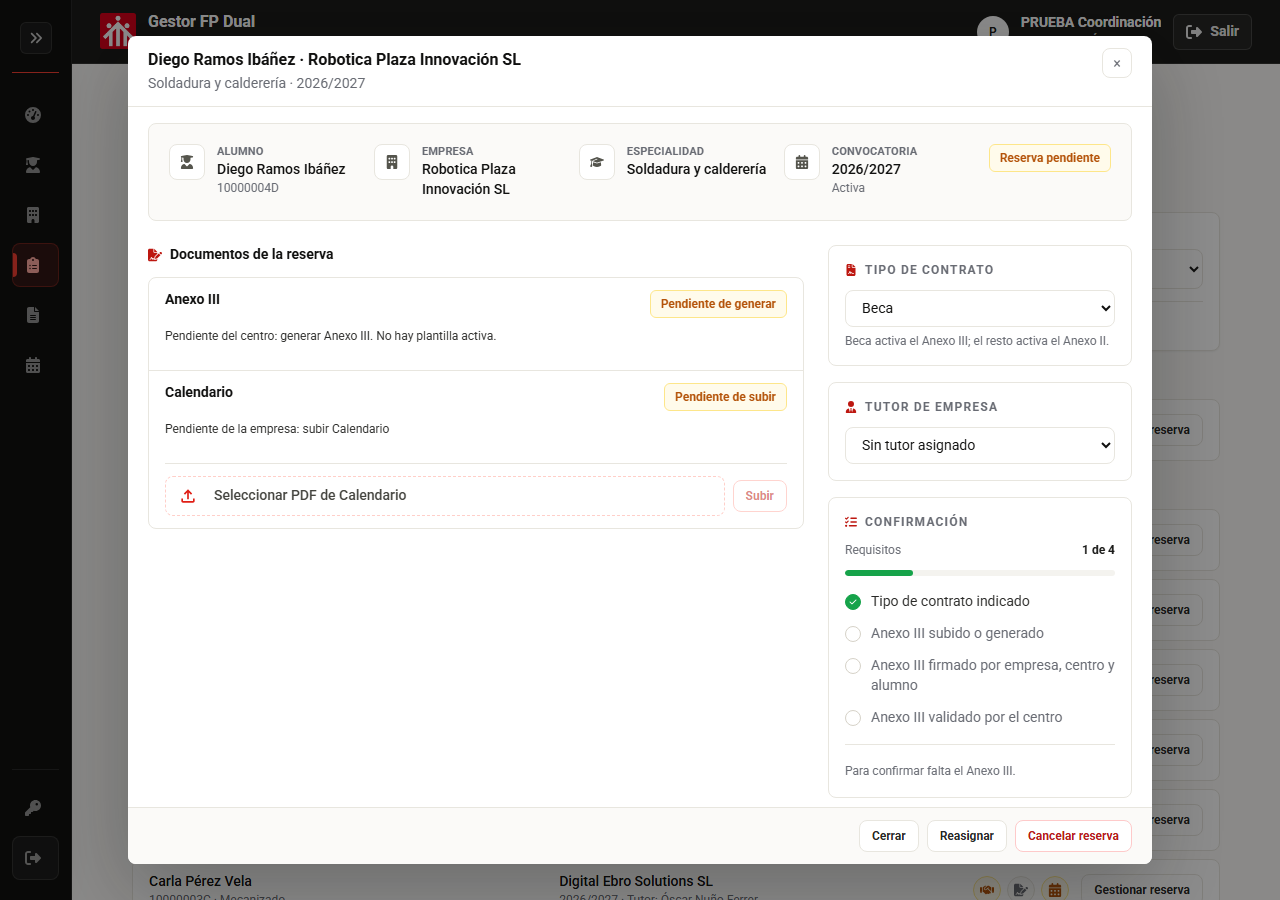
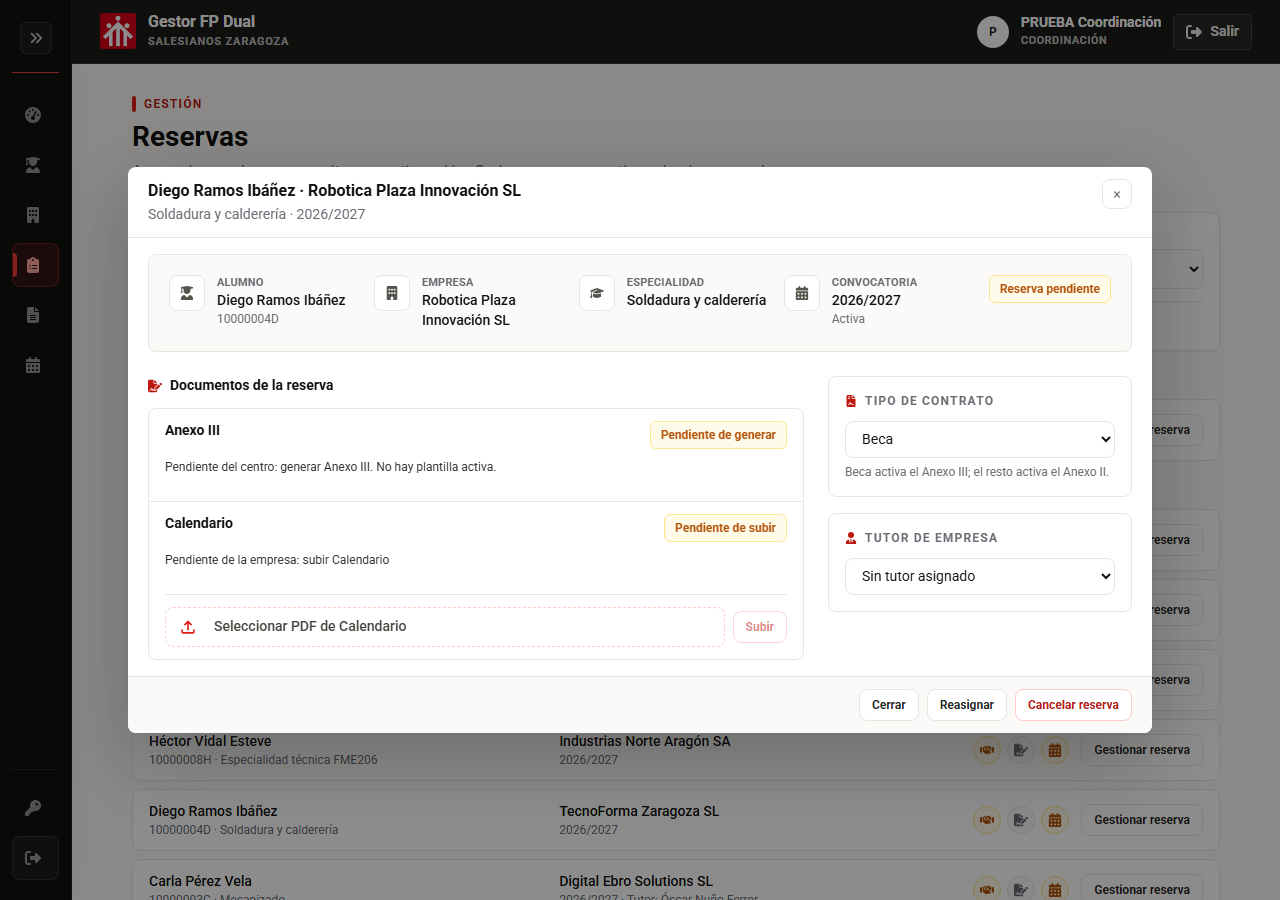
Reservation panel: drop the confirmation checklist card; «Confirmar reserva» moves to the footer

diff --git a/frontend/src/components/reservas/ReservaDetalle.jsx b/frontend/src/components/reservas/ReservaDetalle.jsx
@@ -2,12 +2,10 @@ import { useCallback, useEffect, useState } from "react";
 import {
   FaBuilding,
   FaCalendarDays,
-  FaCheck,
   FaClockRotateLeft,
   FaFileContract,
   FaFileSignature,
   FaGraduationCap,
-  FaListCheck,
   FaUserGraduate,
   FaUserTie,
 } from "react-icons/fa6";
@@ -20,7 +18,7 @@ import TipoContratoSelect from "../TipoContratoSelect.jsx";
 import TutorAssignSelect from "../TutorAssignSelect.jsx";
 import { useConfirm, useToast } from "../feedback/ToastProvider.jsx";
 import { getJSON, postJSON } from "../../utils/api.js";
-import { ACTOR, tipoContratoLabel } from "../../utils/labels.js";
+import { tipoContratoLabel } from "../../utils/labels.js";
 import { formatDocumentDate } from "../../utils/documentos.js";
 
 // The whole lifecycle of one reservation in one place (Phase 3, D.1):
@@ -129,6 +127,11 @@ export default function ReservaDetalle({ idReserva, open, onClose, onChanged }) 
                   Cancelar reserva
                 </button>
               )}
+              {r.estado_reserva === "PENDIENTE" && acciones.confirmar?.permitido && (
+                <button type="button" className="btn btn-primary btn-sm" onClick={confirmar} disabled={busy}>
+                  Confirmar reserva
+                </button>
+              )}
             </>
           )
         }
@@ -200,8 +203,8 @@ export default function ReservaDetalle({ idReserva, open, onClose, onChanged }) 
                 )}
               </div>
 
-              {/* Side column: what the centre decides and the confirmation checklist */}
-              <aside className="space-y-4" aria-label="Datos y confirmación de la reserva">
+              {/* Side column: contract type and tutor */}
+              <aside className="space-y-4" aria-label="Tipo de contrato y tutor">
                 <Card title="Tipo de contrato" Icon={FaFileContract}>
                   {acciones.cambiar_tipo?.permitido ? (
                     <>
@@ -246,10 +249,6 @@ export default function ReservaDetalle({ idReserva, open, onClose, onChanged }) 
                     </>
                   )}
                 </Card>
-
-                {r.estado_reserva === "PENDIENTE" && (
-                  <Confirmacion requisitos={data.confirmacion.requisitos} accion={acciones.confirmar} onConfirmar={confirmar} busy={busy} />
-                )}
               </aside>
             </div>
           </div>
@@ -409,57 +408,6 @@ function Resumen({ r }) {
         </p>
       )}
     </div>
-  );
-}
-
-// Confirmation checklist with progress, in the side column.
-function Confirmacion({ requisitos, accion, onConfirmar, busy }) {
-  const hechos = requisitos.filter((q) => q.ok).length;
-  const pct = requisitos.length ? Math.round((hechos / requisitos.length) * 100) : 0;
-  return (
-    <Card title="Confirmación" Icon={FaListCheck}>
-      <div className="mb-3 flex items-center justify-between text-xs">
-        <span className="text-muted">Requisitos</span>
-        <span className="font-semibold text-charcoal-900">
-          {hechos} de {requisitos.length}
-        </span>
-      </div>
-      <div className="mb-4 h-1.5 overflow-hidden rounded-full bg-surface-100" aria-hidden="true">
-        <div className="h-full rounded-full bg-green-600 transition-[width] duration-300" style={{ width: `${pct}%` }} />
-      </div>
-      <ul className="m-0 list-none space-y-3 p-0" aria-label="Requisitos para confirmar">
-        {requisitos.map((req) => (
-          <li key={req.clave} className="flex items-start gap-2.5 text-sm">
-            <span
-              aria-hidden="true"
-              className={`mt-0.5 flex h-4 w-4 shrink-0 items-center justify-center rounded-full border ${
-                req.ok ? "border-green-600 bg-green-600 text-white" : "border-surface-300 bg-white"
-              }`}
-            >
-              {req.ok && <FaCheck className="h-2 w-2" />}
-            </span>
-            <span className={`leading-5 ${req.ok ? "text-charcoal-800" : "text-muted"}`}>
-              {req.texto}
-              <span className="sr-only">{req.ok ? " (cumplido)" : " (pendiente)"}</span>
-              {!req.ok && req.pendientes?.length > 0 && (
-                <span className="block text-xs text-amber-800">
-                  Falta: {req.pendientes.map((p) => ACTOR[p === "GESTOR" ? "CENTRO" : p] || p).join(", ")}
-                </span>
-              )}
-            </span>
-          </li>
-        ))}
-      </ul>
-      <div className="mt-4 border-t border-surface-200 pt-4">
-        {accion?.permitido ? (
-          <button type="button" className="btn btn-primary w-full" onClick={onConfirmar} disabled={busy}>
-            Confirmar reserva
-          </button>
-        ) : (
-          <p className="m-0 text-xs leading-5 text-muted">{accion?.motivo}</p>
-        )}
-      </div>
-    </Card>
   );
 }
 

diff --git a/docs/MANUAL_DE_USUARIO.md b/docs/MANUAL_DE_USUARIO.md
@@ -570,11 +570,11 @@ _Lista de reservas. Pasa el ratón por un icono para ver qué significa._
 
 - **Arriba**, el alumno, la empresa, la especialidad, la convocatoria y el estado de la reserva (y el motivo, si está cancelada).
 - **A la izquierda**, los documentos de la reserva (Anexo II o III y Calendario) y, si los hay, el historial de versiones anteriores.
-- **A la derecha**, el tipo de contrato, el tutor de empresa y la lista **«Confirmación»**, con una barra que indica cuántos requisitos se cumplen.
-- **Abajo**, «Cerrar», «Reasignar» y «Cancelar reserva».
+- **A la derecha**, el tipo de contrato y el tutor de empresa.
+- **Abajo**, «Cerrar», «Reasignar», «Cancelar reserva» y, cuando ya se puede, **«Confirmar reserva»**.
 
 ![Ventana de una reserva pendiente con el tipo de contrato, los documentos, el tutor y la lista de confirmación](manual/imagenes/reserva-detalle.png)
-_Panel de una reserva pendiente con tipo de contrato «Beca»: el Anexo III está pendiente de generar y se cumple 1 de los 4 requisitos para confirmar._
+_Panel de una reserva pendiente con tipo de contrato «Beca»: el Anexo III está pendiente de generar, así que todavía no aparece «Confirmar reserva»._
 
 El trabajo normal con una reserva sigue este orden:
 
@@ -608,14 +608,14 @@ Cuando están todas las firmas, revisa el documento y pulsa **«Validar»** (o *
 
 **5. Confirmar la reserva**
 
-En **«Confirmación»** hay una lista que se va marcando:
+El botón **«Confirmar reserva»** aparece abajo, junto a «Cancelar reserva», solo cuando se cumple todo:
 
-- Tipo de contrato indicado
-- Anexo II/III subido o generado
-- Anexo II/III firmado por empresa, centro y alumno
-- Anexo II/III validado por el centro
+- el tipo de contrato está indicado;
+- el Anexo II/III está subido o generado;
+- lo han firmado empresa, centro y alumno;
+- el centro lo ha validado.
 
-Cuando todo está marcado aparece **«Confirmar reserva»**. Al confirmar, el alumno queda asignado definitivamente a la empresa y **sus otras reservas pendientes se cancelan solas**. Si falta algo, debajo de la lista se explica qué es.
+Mientras falte algo, el estado del anexo en «Documentos de la reserva» indica qué queda y de quién (por ejemplo «Pendiente de firma» con la firma del alumno «Sin firmar»). Al confirmar, el alumno queda asignado definitivamente a la empresa y **sus otras reservas pendientes se cancelan solas**.
 
 **Calendario y tutor**
 
@@ -1061,7 +1061,7 @@ Las solicitudes solo se admiten mientras hay una **convocatoria activa**, y eso 
 - **¿Qué anexo toca?** **Beca → Anexo III.** Contrato de formación en alternancia, Convenio u Otro → **Anexo II.**
 - **¿Por qué no aparece el anexo?** Porque todavía no se ha indicado el tipo de contrato. También puede estar «Pendiente de generar» si el centro tiene que generarlo y aún no lo ha hecho (o no hay plantilla).
 - **¿Se puede cambiar el tipo de contrato?** Entre tipos del mismo anexo, sí. Para pasar de Anexo II a Anexo III (o al revés), **no**, cuando el anexo actual ya está subido pendiente de revisión o validado; la aplicación lo indica. En una reserva **confirmada** el tipo ya no se puede cambiar.
-- **¿Por qué no se puede confirmar la reserva?** Porque falta algo de la lista de «Confirmación»: el tipo de contrato, el anexo, alguna firma o la validación. La lista dice qué falta y de quién («Falta: Alumno»). El Calendario no es necesario para confirmar.
+- **¿Por qué no se puede confirmar la reserva?** Porque falta algo: el tipo de contrato, el anexo, alguna firma o la validación. Hasta entonces el botón «Confirmar reserva» no aparece; el anexo, en «Documentos de la reserva», indica qué falta y de quién. El Calendario no es necesario para confirmar.
 
 ### Subido, firmado y validado no son lo mismo
 

diff --git a/docs/manual/CAPTURAS_PENDIENTES.md b/docs/manual/CAPTURAS_PENDIENTES.md
@@ -26,9 +26,9 @@ El manual ya se entiende sin ellas. Para añadir una:
 - **Apartado:** 5.5 Reservas → «El panel de la reserva», pasos 3 a 5
 - **Rol:** Coordinación o Administración
 - **Dónde:** Reservas → grupo «Anexo pendiente de validar» (o «Anexo pendiente de firmas») → «Gestionar reserva»
-- **Qué mostrar:** el panel con un tipo de contrato elegido; en «Documentos de la reserva», el Anexo II con la lista de firmas (Empresa, Alumno, Centro) y los botones «Firmar» / «Validar»; y la lista «Confirmación» con algunos puntos marcados.
+- **Qué mostrar:** el panel con un tipo de contrato elegido; en «Documentos de la reserva», el Anexo II con la lista de firmas (Empresa, Alumno, Centro) y los botones «Firmar» / «Validar»; abajo, sin el botón «Confirmar reserva» todavía.
 - **Datos necesarios:** una reserva pendiente con tipo de contrato y el Anexo II subido. Los datos de prueba actuales no tienen ninguna en ese estado.
-- **Pie de imagen:** «Anexo II con el estado de cada firma y la lista de requisitos para confirmar.»
+- **Pie de imagen:** «Anexo II con el estado de cada firma, antes de poder confirmar la reserva.»
 - **Markdown para insertar:** `![Panel de reserva con el Anexo II, sus firmas y la lista de confirmación](manual/imagenes/reserva-anexo-firmas.png)`
 
 ## 3. `seleccion-tipo-contrato.png` — Opcional
